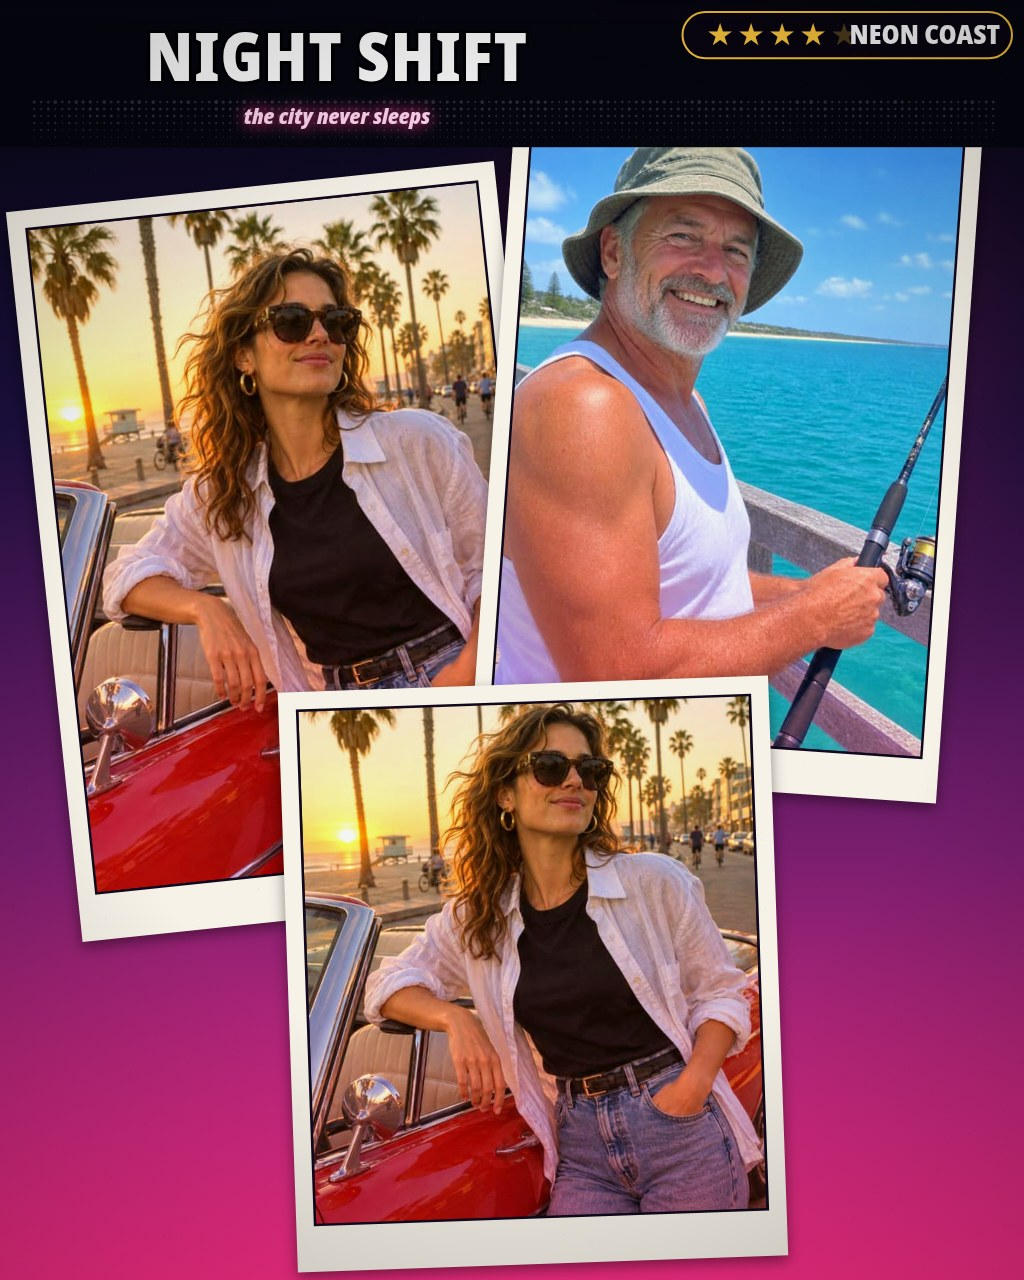
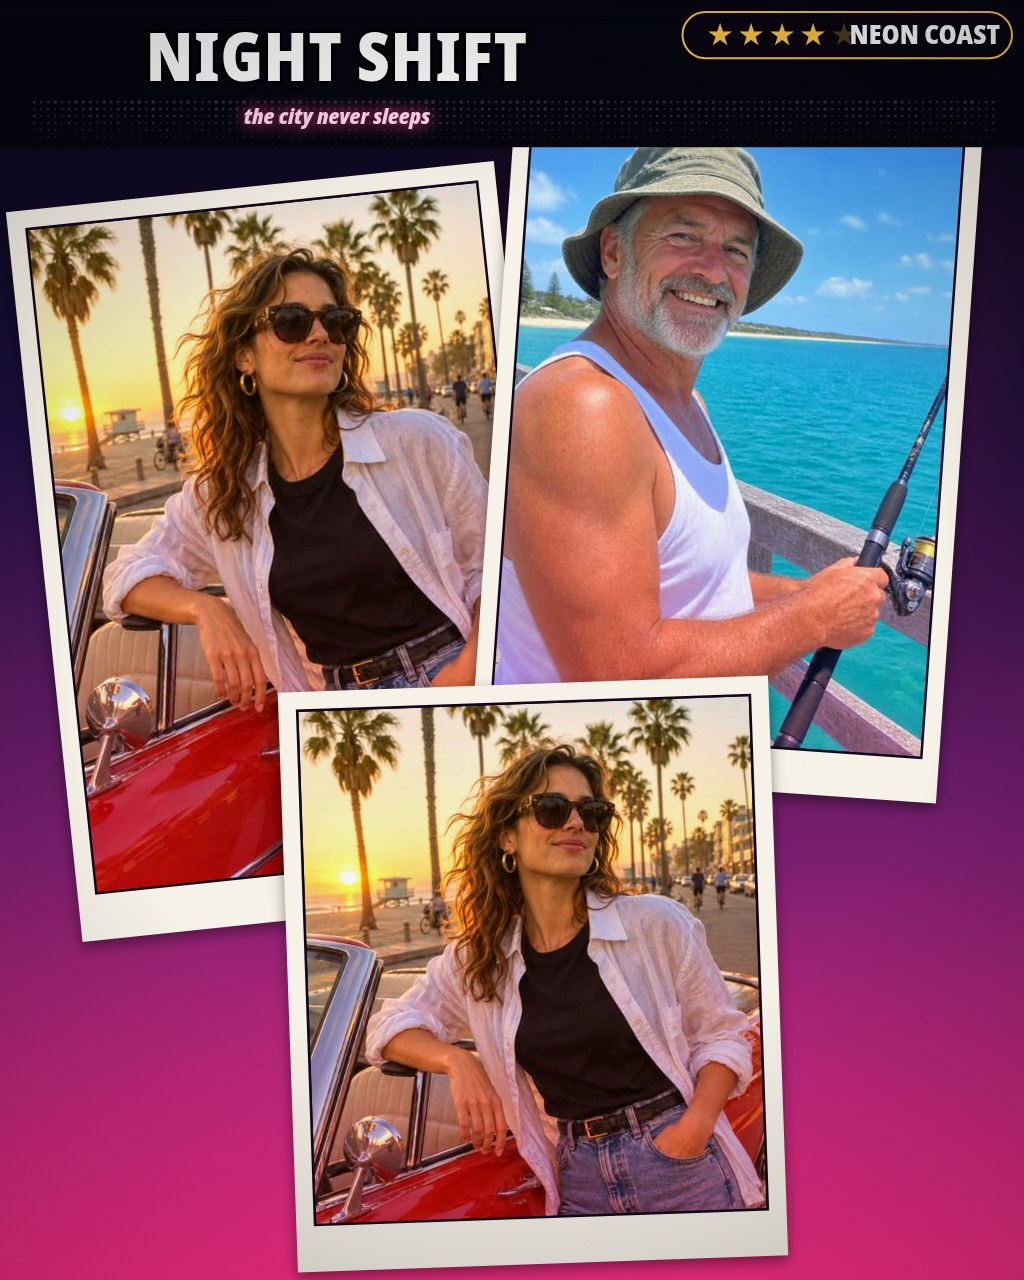
Fix headless crops: anchor default photo framing on the face band

Changed region(s): [[0.2812, 0.5312, 0.75, 0.9688]]

diff --git a/app/src/cover.js b/app/src/cover.js
@@ -58,8 +58,20 @@ function drawPhotoInto(ctx, photo, dx, dy, dw, dh, crop, grade) {
   const scale = base * (crop.zoom || 1);
   const pw = iw * scale;
   const ph = ih * scale;
+  // Default framing: faces sit in the upper part of a portrait photo, so
+  // when the panel crops vertically, anchor the visible band on that
+  // region (fraction FOCUS_Y of the photo height) instead of the vertical
+  // middle — a wide panel otherwise beheads its subject. An explicit pan
+  // (crop.oy) moves away from the anchor, so dragging stays continuous
+  // and "Fit" (oy 0) returns to the anchored framing. The anchor is
+  // clamped to the legal range, so it never leaves a gap.
+  const FOCUS_Y = 0.20;
+  let oy = (dh - ph) / 2;
+  if (ph > dh) {
+    oy = Math.max(dh - ph, Math.min(0, dh / 2 - FOCUS_Y * ph));
+  }
+  oy += (crop.oy || 0) * dh;
   const ox = (dw - pw) / 2 + (crop.ox || 0) * dw;
-  const oy = (dh - ph) / 2 + (crop.oy || 0) * dh;
   ctx.save();
   ctx.filter = grade.photoFilter;
   ctx.drawImage(photo, dx + ox, dy + oy, pw, ph);
